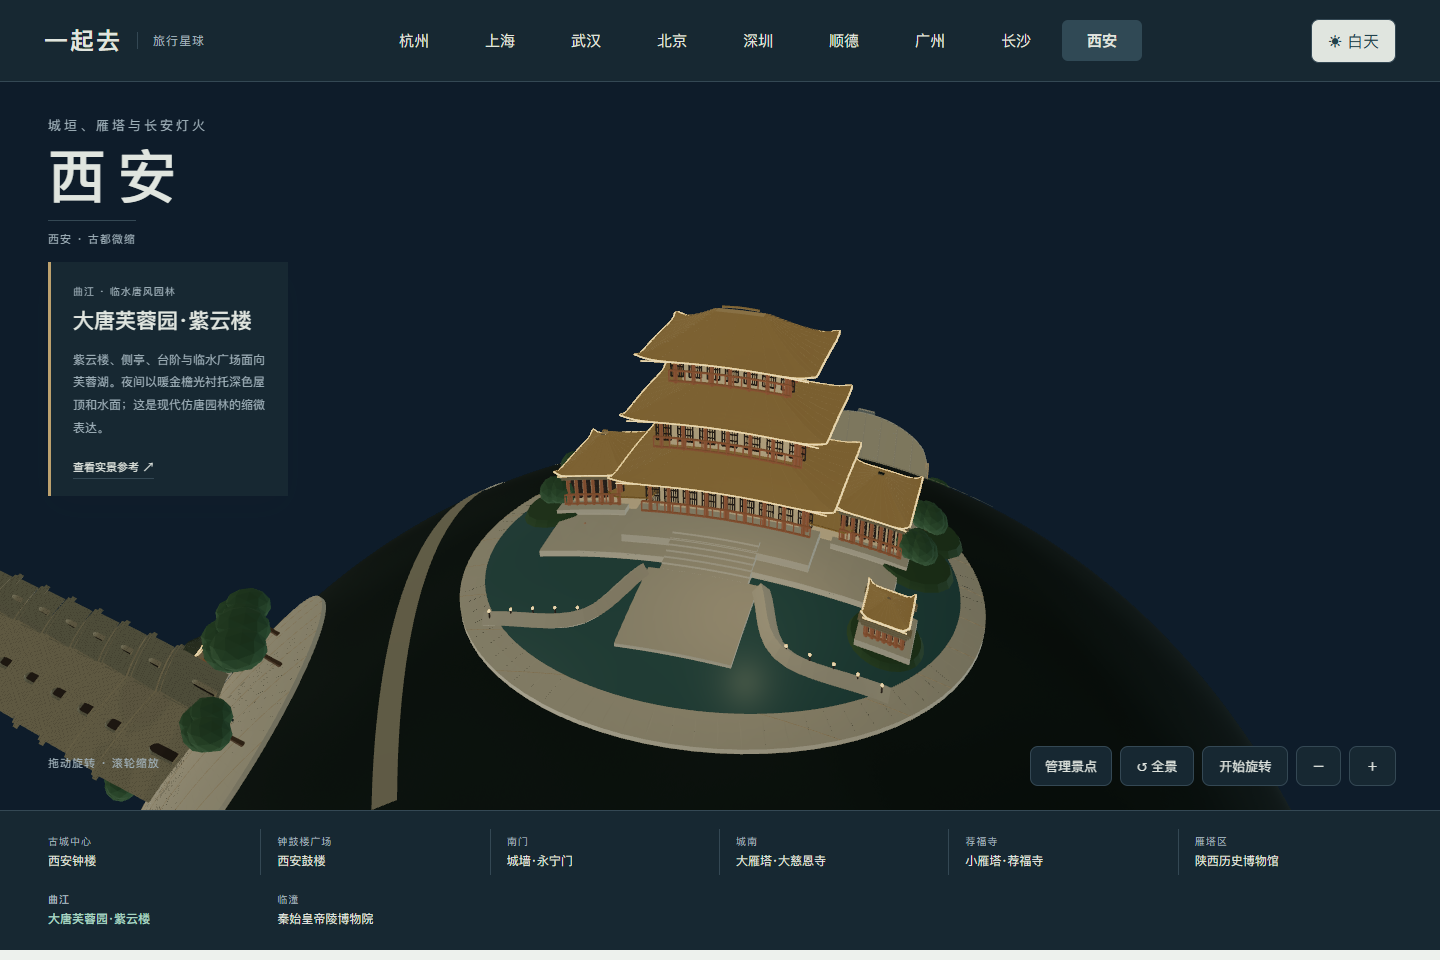
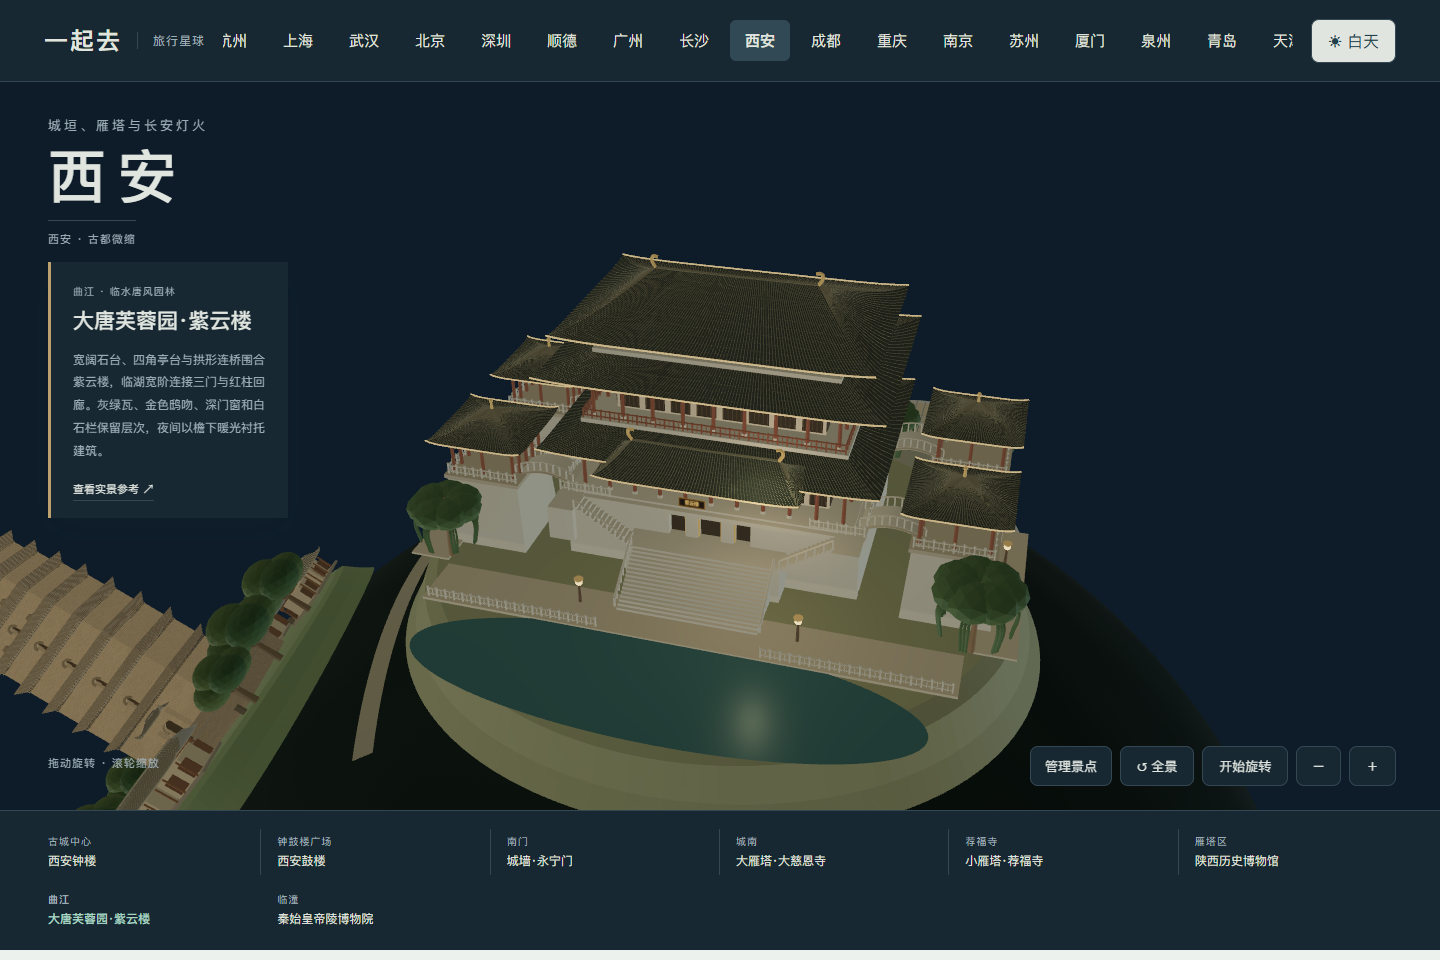
Rebuild Ziyun Pavilion terraces, corner pavilions and lakeside stairs

diff --git a/web/xian-furong.js b/web/xian-furong.js
@@ -1,0 +1,148 @@
+import * as THREE from 'three';
+import {ellipseSurface} from './xian-kit.js';
+import {plaque} from './wuhan-architecture.js';
+
+function patch(k,g,m,fn,nu=40,nv=16){
+ const p=[],ix=[];for(let j=0;j<=nv;j++)for(let i=0;i<=nu;i++)p.push(...fn(i/nu,j/nv));
+ for(let j=0;j<nv;j++)for(let i=0;i<nu;i++){const a=j*(nu+1)+i,b=a+nu+1;ix.push(a,a+1,b,a+1,b+1,b);}
+ const geo=new THREE.BufferGeometry();geo.setAttribute('position',new THREE.Float32BufferAttribute(p,3));geo.setIndex(ix);geo.computeVertexNormals();m.side=THREE.DoubleSide;k.mesh(g,geo,m);
+}
+function tangRoof(k,g,p,w,d,y,h,pyramidal=false){
+ const ridge=pyramidal?.001:Math.max(.01,w/2-d*.35),point=(sign,u,t,lift=0)=>{
+  const x=(u*2-1)*(ridge+(w/2-ridge)*t);return[x,y+h*(1-t)**1.45+.008*t**6*Math.abs(u*2-1)**7+lift,sign*d/2*t];
+ };
+ for(const sign of [-1,1]){
+  patch(k,g,p.tile,(u,t)=>point(sign,u,t));
+  const count=Math.max(28,Math.ceil(w/.009));for(let i=0;i<=count;i++)k.line(g,Array.from({length:10},(_,j)=>point(sign,i/count,j/9,.0008)),.0008,p.rib);
+  for(let j=1;j<10;j++)k.line(g,Array.from({length:21},(_,i)=>point(sign,i/20,j/10,.0003)),.00035,p.seam);
+  k.line(g,Array.from({length:41},(_,i)=>point(sign,i/40,1,.002)),.0025,p.edge);
+  patch(k,g,p.tile,(u,t)=>[sign*(ridge+(w/2-ridge)*t),y+h*(1-t)**1.45+.008*t**6*Math.abs(u*2-1)**7,(u*2-1)*d/2*t],24,16);
+  for(let i=0;i<=28;i++)k.line(g,Array.from({length:10},(_,j)=>{const t=j/9,u=i/28*2-1;return[sign*(ridge+(w/2-ridge)*t),y+h*(1-t)**1.45+.008*t**6*Math.abs(u)**7+.0008,u*d/2*t];}),.0008,p.rib);
+  if(!pyramidal)k.line(g,[[sign*ridge,y+h+.002,0],[sign*(ridge+.011),y+h+.022,0],[sign*(ridge+.007),y+h+.035,0],[sign*(ridge-.008),y+h+.034,0]],.005,p.gold);
+ }
+ k.line(g,[[-ridge,y+h+.003,0],[0,y+h+.001,0],[ridge,y+h+.003,0]],.004,p.rib);
+}
+
+function balustrade(k,g,p,a,b,y,stone=true){
+ const len=Math.hypot(b[0]-a[0],b[1]-a[1]),count=Math.max(2,Math.round(len/.026)),m=stone?p.stone:p.red;
+ for(let i=0;i<=count;i++){
+  const x=THREE.MathUtils.lerp(a[0],b[0],i/count),z=THREE.MathUtils.lerp(a[1],b[1],i/count);
+  k.box(g,.004,.030,.004,m,x,y+.015,z);if(stone)k.ball(g,.0034,m,x,y+.032,z);
+  if(i<count){const xx=THREE.MathUtils.lerp(a[0],b[0],(i+.5)/count),zz=THREE.MathUtils.lerp(a[1],b[1],(i+.5)/count);k.box(g,.002,.020,.002,m,xx,y+.013,zz);}
+ }
+ for(const h of [.009,.027])k.beam(g,[a[0],y+h,a[1]],[b[0],y+h,b[1]],.0022,m);
+}
+function gallery(k,g,p,{w,d,y,h,bays=8,open=false}){
+ const iw=w*.81,id=d*.67;
+ k.box(g,w+.015,.012,d+.015,p.stone,0,y-.006,0);
+ if(!open){
+  k.box(g,iw,h*.91,id,p.cream,0,y+h*.46,0);
+  for(const sign of [-1,1]){
+   for(let i=0;i<bays;i++){
+    const x=((i+.5)/bays-.5)*iw,ww=iw/bays*.76;
+    k.box(g,ww,h*.76,.003,p.door,x,y+h*.43,sign*(id/2+.001));
+    for(let j=0;j<5;j++)k.box(g,.0014,h*.68,.002,p.wood,x+(j/4-.5)*ww*.88,y+h*.43,sign*(id/2+.003));
+   }
+   for(let j=0;j<4;j++){const zz=(j/3-.5)*id*.84;k.box(g,.003,h*.73,id*.15,p.door,sign*(iw/2+.001),y+h*.44,zz);}
+  }
+ }
+ for(const sign of [-1,1]){
+  for(let i=0;i<=bays;i++){
+   const x=(i/bays-.5)*w*.94,z=sign*d*.46;
+   k.cyl(g,.0048,.0058,h,p.red,x,y+h/2,z,10);k.cyl(g,.007,.008,.009,p.stone,x,y+.004,z,10);
+   for(let j=0;j<3;j++){k.box(g,.014+j*.009,.004,.018+j*.006,p.wood,x,y+h-.012+j*.005,z);k.box(g,.005,.004,.023+j*.009,p.red,x,y+h-.009+j*.005,z);}
+  }
+  k.box(g,w,.010,.016,p.wood,0,y+h-.005,sign*d*.46);k.box(g,w*.96,.003,.002,p.gold,0,y+h-.007,sign*(d*.46+.009));
+  for(let i=1;i<4;i++)k.cyl(g,.0048,.0058,h,p.red,sign*w*.47,y+h/2,(i/4-.5)*d*.92,10);
+  k.box(g,.016,.010,d,p.wood,sign*w*.47,y+h-.005,0);
+  for(let i=0;i<bays;i++)k.box(g,w*.72/bays,.002,.006,p.light,((i+.5)/bays-.5)*w*.94,y+h-.017,sign*d*.40);
+ }
+}
+function podium(k,g,p,w,d,y,h,x=0,z=0){
+ const geo=new THREE.CylinderGeometry(1,1.13,h,4,1,false);geo.rotateY(Math.PI/4);geo.scale(w/Math.sqrt(2),1,d/Math.sqrt(2));k.mesh(g,geo,p.stone,x,y+h/2,z);
+ k.box(g,w+.014,.012,d+.014,p.cap,x,y+h+.003,z);
+}
+function bridge(k,g,p,side,z){
+ const a=.42,b=.60,w=.095,base=.238;
+ patch(k,g,p.stone,(u,v)=>[side*(a+(b-a)*u),base+.024*Math.sin(u*Math.PI),(v-.5)*w+z],28,6);
+ for(const sz of [-1,1]){
+  const pts=[];for(let i=0;i<=9;i++){const u=i/9,x=side*(a+(b-a)*u),y=base+.024*Math.sin(u*Math.PI);k.box(g,.004,.028,.004,p.stone,x,y+.014,z+sz*w/2);pts.push([x,y+.030,z+sz*w/2]);}
+  k.line(g,pts,.0025,p.stone);k.line(g,pts.map(([x,y,z])=>[x,y-.037,z]),.004,p.cap);
+  patch(k,g,p.cap,(u,v)=>[side*(a+(b-a)*u),base+.024*Math.sin(u*Math.PI)-v*.010,z+sz*w/2],28,1);
+ }
+}
+function willow(k,g,p,x,z,h){
+ k.cyl(g,.004,.010,h,p.trunk,x,.016+h/2,z,8);
+ for(let j=0;j<7;j++){
+  const a=j/7*Math.PI*2,xx=x+Math.cos(a)*h*.25,zz=z+Math.sin(a)*h*.25;
+  k.beam(g,[x,.016+h*.65,z],[xx,.016+h,zz],.003,p.trunk);
+  const b=k.mesh(g,new THREE.IcosahedronGeometry(h*.30,1),p.leaf,xx,h*.96,zz);b.scale.set(1,.70,1);
+  for(let i=-1;i<=1;i++)k.line(g,[[xx,h*.98,zz],[xx+Math.cos(a+i*.2)*h*.20,h*.77,zz+Math.sin(a+i*.2)*h*.2],[xx+Math.cos(a+i*.2)*h*.16,h*.38,zz+Math.sin(a+i*.2)*h*.16]],.004,p.leaf);
+ }
+}
+export function furong(k){
+ const first=k.materials.length,g=new THREE.Group(),p={stone:k.mat('#cbcbbc'),cap:k.mat('#aaa999'),cream:k.mat('#d6cdb6'),tile:k.mat('#415651'),rib:k.mat('#5c6c60'),seam:k.mat('#344642'),edge:k.mat('#c1ac74'),gold:k.mat('#b99a4b',.55,.3),red:k.mat('#824136'),wood:k.mat('#493a31'),door:k.mat('#282b29'),ground:k.mat('#a6ad8a'),paving:k.mat('#b8b7a5'),water:k.mat('#52817c',.34,.12),leaf:k.mat('#5d7650'),trunk:k.mat('#796650')};
+ for(const [name,m]of Object.entries(p))m.userData.night={color:new THREE.Color(name==='leaf'?'#6a8057':name==='water'?'#6b8584':'#f2cf99'),intensity:name==='tile'?.015:name==='door'?.035:name==='ground'?.018:name==='stone'?.035:.055};
+ p.edge.userData.night.intensity=.42;p.gold.userData.night.intensity=.16;
+ p.light=k.mat('#c9b48e',.8,0,'#ffd39b');p.light.userData.night.intensity=.68;
+ p.water.userData.furongLake=true;p.water.userData.preserveSmooth=true;
+ const positions=[],indices=[],N=128,R=24;
+ for(let j=0;j<=R;j++)for(let i=0;i<=N;i++){const rr=j/R,a=i/N*Math.PI*2,x=.96*rr*Math.cos(a),z=.88*rr*Math.sin(a),sag=2.15-Math.sqrt(2.15**2-x*x-z*z);positions.push(x,.012-sag*THREE.MathUtils.smoothstep(rr,.88,1),z);}
+ for(let j=0;j<R;j++)for(let i=0;i<N;i++){const a=j*(N+1)+i,b=a+N+1;if(j)indices.push(a,a+1,b);indices.push(a+1,b+1,b);}
+ const ground=new THREE.BufferGeometry();ground.setAttribute('position',new THREE.Float32BufferAttribute(positions,3));ground.setIndex(indices);ground.computeVertexNormals();k.mesh(g,ground,p.ground);
+ // The lake lies beyond the land-based podium and the continuous shore walk.
+ const lake=ellipseSurface(k,g,.69,.20,.017,p.water);lake.position.z=.60;
+ k.box(g,1.49,.008,.16,p.paving,0,.018,.36);
+ for(const s of [-1,1]){k.box(g,.12,.006,.59,p.paving,s*.82,.016,-.04);balustrade(k,g,p,[s*.23,.43],[s*.73,.43],.022);}
+ // Wide raised base: the three bottom doors are recessed below the main gallery.
+ k.box(g,.86,.210,.52,p.stone,0,.117,-.19);k.box(g,.89,.014,.60,p.stone,0,.229,-.16);
+ const faceZ=.100;
+ for(const [x,w]of [[-.275,.31],[.275,.31],[0,.046]]){if(x===0)continue;k.box(g,w,.21,.024,p.stone,x,.117,faceZ);}
+ for(const x of [-.105,0,.105]){
+  k.box(g,.063,.088,.003,p.door,x,.162,faceZ-.014);
+  for(const s of [-1,1])k.box(g,.006,.093,.007,p.gold,x+s*.034,.164,faceZ+.002);
+  k.box(g,.074,.007,.007,p.gold,x,.211,faceZ+.002);
+ }
+ for(const x of [-.0525,.0525])k.box(g,.035,.115,.024,p.stone,x,.174,faceZ);
+ k.box(g,.25,.015,.024,p.stone,0,.222,faceZ);k.box(g,.28,.112,.024,p.stone,0,.068,faceZ);
+ // Broad lower flight reaches the recessed door landing, with two upper side flights.
+ for(let i=0;i<16;i++)k.box(g,.40,.007*(i+1),.011,p.stone,0,.022+.0035*(i+1),.342-i*.010);
+ k.box(g,.45,.112,.110,p.stone,0,.078,.143);
+ for(const side of [-1,1]){
+  const stairRail=[];
+  for(let i=0;i<13;i++){
+   const x=side*(.225+i*.012),y=.134+.008*(i+1);k.box(g,.013,.008*(i+1),.060,p.stone,x,.134+.004*(i+1),.170);
+   if(i%2===0){k.box(g,.004,.028,.004,p.stone,x,y+.014,.205);stairRail.push([x,y+.030,.205]);}
+  }
+  k.box(g,.075,.104,.140,p.stone,side*.405,.186,.150);k.line(g,stairRail,.0025,p.stone);
+  const lower=[];for(let i=0;i<9;i++){const z=.342-i*.01875,y=.029+i*.013125;k.box(g,.005,.030,.005,p.stone,side*.207,y+.015,z);lower.push([side*.207,y+.031,z]);}k.line(g,lower,.003,p.stone);
+ }
+ // Three eave levels sit over two broad, recessed column galleries and a low attic.
+ const hall=new THREE.Group();hall.position.z=-.16;g.add(hall);
+ gallery(k,hall,p,{w:.80,d:.55,y:.242,h:.145,bays:10});tangRoof(k,hall,p,.96,.70,.394,.060);
+ gallery(k,hall,p,{w:.74,d:.49,y:.466,h:.135,bays:8});
+ for(const s of [-1,1]){balustrade(k,hall,p,[-.37,s*.25],[.37,s*.25],.468,false);balustrade(k,hall,p,[s*.37,-.25],[s*.37,.25],.468,false);}
+ tangRoof(k,hall,p,.96,.68,.611,.055);
+ gallery(k,hall,p,{w:.67,d:.43,y:.673,h:.039,bays:8});tangRoof(k,hall,p,.88,.60,.722,.106);
+ const porch=new THREE.Group();porch.position.z=.155;g.add(porch);tangRoof(k,porch,p,.57,.23,.391,.065);
+ plaque(k,g,'紫云楼',.073,.028,0,.364,.274);
+ for(const s of [-1,1]){
+  balustrade(k,g,p,[s*.29,.127],[s*.44,.127],.240);
+  balustrade(k,g,p,[s*.44,-.45],[s*.44,.055],.240);
+  for(const z of [-.39,.035]){
+   const x=s*.68;podium(k,g,p,.22,.22,.012,.222,x,z);
+   const pavilion=new THREE.Group();pavilion.position.set(x,0,z);g.add(pavilion);
+   gallery(k,pavilion,p,{w:.20,d:.20,y:.242,h:.110,bays:2,open:true});
+   tangRoof(k,pavilion,p,.29,.29,.360,.060,true);k.cyl(pavilion,.003,.005,.022,p.gold,0,.430,0,8);k.ball(pavilion,.006,p.gold,0,.444,0);
+   for(const d of [-1,1]){balustrade(k,pavilion,p,[-.106,d*.106],[.106,d*.106],.243);if(d===s)balustrade(k,pavilion,p,[d*.106,-.106],[d*.106,.106],.243);}
+   bridge(k,g,p,s,z);
+  }
+ }
+ balustrade(k,g,p,[-.43,-.46],[.43,-.46],.240);
+ for(const [x,z,h]of [[-.76,.23,.20],[.76,.25,.23],[-.70,-.56,.22],[.70,-.56,.20],[-.39,-.64,.18],[.39,-.64,.20]])willow(k,g,p,x,z,h);
+ for(const [i,[x,z]]of [[-.31,.34],[.31,.34],[-.82,-.15],[.82,-.15]].entries()){
+  const m=k.mat('#c2a56d',.8,0,'#ffd59b');m.userData.night.intensity=.95;m.userData.pulse={speed:.65,phase:i*1.7};k.cyl(g,.003,.005,.065,p.wood,x,.054,z,8);k.ball(g,.010,m,x,.089,z);k.cyl(g,.014,.012,.005,p.gold,x,.099,z,8);
+ }
+ for(const m of k.materials.slice(first))m.userData.furongRigid=true;
+ g.userData={modernTangGarden:true,cornerPavilions:4,landBasedPodium:true};return k.merge(g);
+}

diff --git a/web/xian-landmarks.js b/web/xian-landmarks.js
@@ -7,7 +7,7 @@ export const LANDMARKS=[
   {id:'pagoda',name:'大雁塔·大慈恩寺',area:'城南 · 七层方塔',x:1.11,z:-1.00,height:1.27,distance:3.2,view:[.30,.70,1.75],description:'七层灰褐砖塔逐层收分，券窗、砖仿木柱和叠涩出檐形成细节。底层入口与两侧碑龛分开，葫芦塔刹、灰瓦寺院与石阶共同组成完整场地。',source:'https://www.hkcd.com/content_p/2013-12/09/content_1991.html'},
   {id:'smallPagoda',name:'小雁塔·荐福寺',area:'荐福寺 · 密檐古塔',x:-1.02,z:.85,hemisphere:-1,height:1.27,distance:2.9,view:[.33,.73,1.7],description:'十三层砖塔向上渐密收分，南北券窗与叠涩砖檐保留细节，四角残墙围合塔顶。石门、台阶、灰瓦殿堂和古树组成荐福寺院落，夜间以低亮暖光呈现砖色。',source:'https://m.thepaper.cn/newsDetail_forward_28705852'},
   {id:'museum',name:'陕西历史博物馆',area:'雁塔区 · 唐风殿堂',x:1.07,z:.95,hemisphere:-1,height:.53,distance:3.0,view:[.35,.73,1.7],description:'独立前门、重檐主殿、四角楼与连续柱廊围合庭院，灰瓦、浅石柱和宽阶保留唐风馆舍层次。入口水池与灰底金字石牌面向广场，夜间以廊下暖光和低矮庭灯分层。',source:'https://www.cscec.com/ztzl_new/mhsjd81_new/bq/201812/2899627.html'},
-  {id:'furong',name:'大唐芙蓉园·紫云楼',area:'曲江 · 临水唐风园林',x:-1.10,z:-.88,hemisphere:-1,height:.72,distance:3.0,view:[.45,1.0,1.6],description:'紫云楼、侧亭、台阶与临水广场面向芙蓉湖。夜间以暖金檐光衬托深色屋顶和水面；这是现代仿唐园林的缩微表达。',source:'https://dp.pconline.com.cn/photo/list_4848079.html'},
+  {id:'furong',name:'大唐芙蓉园·紫云楼',area:'曲江 · 临水唐风园林',x:-1.13,z:-1.01,hemisphere:-1,height:.83,distance:3.25,view:[.45,1.0,1.6],description:'宽阔石台、四角亭台与拱形连桥围合紫云楼，临湖宽阶连接三门与红柱回廊。灰绿瓦、金色鸱吻、深门窗和白石栏保留层次，夜间以檐下暖光衬托建筑。',source:'https://www.tangparadise.cn/its.html?id=753'},
   {id:'warriors',name:'秦始皇帝陵博物院',area:'临潼 · 兵马俑展馆',x:1.10,z:-1.08,hemisphere:-1,height:.30,distance:3.1,view:[.35,.80,1.7],description:'一号坑长拱顶、连续脊部天窗和浅拱玻璃端墙，搭配米灰石柱入口、灰瓦小檐与相邻保护展厅。宽阶、草坪和低矮庭灯连接前院，展示现有馆舍外观。',source:'https://www.bmy.com.cn/pitone.html'},
 ].map(item=>({...item,grounded:true}));
 const builders={bell,drum,wall,pagoda,smallPagoda,museum:historyMuseum,furong,warriors};

diff --git a/web/xian-places.js b/web/xian-places.js
@@ -4,19 +4,5 @@ import {plaque,rail} from './wuhan-architecture.js';
 
 export {wall} from "./xian-wall.js";
 export {historyMuseum} from "./xian-museum.js";
-export function furong(k){
-  const g=new THREE.Group(),p=colors(k);p.tile=k.mat('#575746',.75);p.tile.userData.night={color:new THREE.Color('#e8b969'),intensity:.17};terrace(k,g,p,.73,.65);
-  const water=k.mat('#527d79',.40,.1);water.userData.furongLake=true;water.userData.preserveSmooth=true;ellipseSurface(k,g,.66,.66*.86,.023,water);
-  k.box(g,.97,.021,.54,p.light,0,.032,-.15);k.box(g,.52,.035,.42,p.light,0,.048,-.14);
-  const palace=new THREE.Group();palace.position.set(0,.061,-.20);
-  timberFloor(k,palace,p,{w:.48,d:.31,y:0,h:.13,bays:9});eave(k,palace,p,.62,.44,.135,.070);
-  timberFloor(k,palace,p,{w:.41,d:.27,y:.20,h:.115,bays:7});eave(k,palace,p,.55,.40,.32,.075);
-  timberFloor(k,palace,p,{w:.33,d:.22,y:.392,h:.09,bays:7});eave(k,palace,p,.47,.35,.487,.095);g.add(palace);
-  for(const s of [-1,1]){hall(k,g,p,{x:s*.40,z:-.20,y:.043,w:.17,d:.25,h:.11,roofHeight:.07});k.box(g,.12,.045,.28,p.wall,s*.28,.067,-.23);roof(k,g,.14,.31,.04,.092,p.tile,p.gold,s*.28,-.23);}
-  steps(k,g,p,.24,.19,.06,0,.21,10);k.box(g,.30,.010,.27,p.light,0,.035,.30);
-  for(const s of [-1,1]){k.line(g,[[s*.16,.040,.18],[s*.26,.046,.37],[s*.53,.040,.38]],.024,p.light);for(let i=0;i<5;i++){const x=s*(.27+i*.06),z=.37+i*.005;k.ball(g,.004,p.warm,x,.075,z);k.cyl(g,.002,.003,.035,p.wood,x,.058,z,6);}}
-  for(const [x,z]of [[-.53,-.30],[.53,-.30],[-.52,-.12],[.52,-.12]]){k.cyl(g,.10,.11,.02,p.green,x,.04,z,16);groves(k,g,[[x,z,.095]]);}
-  const island=k.cyl(g,.09,.10,.018,p.green,.49,.03,.20,24);hall(k,g,p,{x:.49,z:.20,w:.10,d:.10,y:.04,h:.06,roofHeight:.035});
-  g.userData={modernTangGarden:true};return finish(k,g,p,{visitors:[[-.12,.07],[.12,.06],[-.40,-.01],[.20,-.03]]});
-}
+export {furong} from "./xian-furong.js";
 export {warriors} from "./xian-warriors.js";

diff --git a/web/xian-scene.js b/web/xian-scene.js
@@ -14,7 +14,7 @@ export function createXianScene(){
     model.traverse(o=>{
       if(!o.isMesh)return;o.userData.landmark=item.id;o.castShadow=true;o.receiveShadow=true;o.material.envMapIntensity=.30;
       const old=o.geometry;o.geometry=new TessellateModifier(.055,7).modify(old);old.dispose();const a=o.geometry.attributes.position,n=o.geometry.attributes.normal;
-      if(!o.material.userData.pagodaRigid&&!o.material.userData.drumRigid&&!o.material.userData.smallPagodaRigid&&!o.material.userData.museumRigid&&!o.material.userData.warriorsRigid&&!o.material.userData.wallRigid)for(let i=0;i<a.count;i++){const x=a.getX(i),z=a.getZ(i);a.setY(i,a.getY(i)-sag(x,z));if(o.material.userData.preserveSmooth){const ny=n.getY(i),r=Math.sqrt(Math.max(.001,RADIUS*RADIUS-x*x-z*z)),nx=n.getX(i)+x/r*ny,nz=n.getZ(i)+z/r*ny,len=Math.hypot(nx,ny,nz);n.setXYZ(i,nx/len,ny/len,nz/len);}}
+      if(!o.material.userData.pagodaRigid&&!o.material.userData.drumRigid&&!o.material.userData.smallPagodaRigid&&!o.material.userData.museumRigid&&!o.material.userData.warriorsRigid&&!o.material.userData.wallRigid&&!o.material.userData.furongRigid)for(let i=0;i<a.count;i++){const x=a.getX(i),z=a.getZ(i);a.setY(i,a.getY(i)-sag(x,z));if(o.material.userData.preserveSmooth){const ny=n.getY(i),r=Math.sqrt(Math.max(.001,RADIUS*RADIUS-x*x-z*z)),nx=n.getX(i)+x/r*ny,nz=n.getZ(i)+z/r*ny,len=Math.hypot(nx,ny,nz);n.setXYZ(i,nx/len,ny/len,nz/len);}}
       a.needsUpdate=true;if(o.material.userData.preserveSmooth)n.needsUpdate=true;else o.geometry.computeVertexNormals();
       if(!o.material.userData.night)o.material.userData.night={color:o.material.color.clone(),intensity:.045};
     });

diff --git a/README.md b/README.md
@@ -1,6 +1,6 @@
 # 一起去 · Travel Planet
 
-用可旋转的 3D 城市星球发现景点，再和朋友一起决定怎么旅行。当前版本 **0.55.27**，支持桌面和手机网页。
+用可旋转的 3D 城市星球发现景点，再和朋友一起决定怎么旅行。当前版本 **0.55.28**，支持桌面和手机网页。
 
 **[上海旅行 · 在线体验](https://43.139.249.151/travel/shanghai-trip.html)** · **[杭州旅行](https://43.139.249.151/travel/)** · **[武汉旅行](https://43.139.249.151/travel/wuhan-trip.html)** · **[武汉纯地图](https://43.139.249.151/travel/wuhan.html)** · **[上海纯地图](https://43.139.249.151/travel/shanghai.html)** · **[北京地图](https://43.139.249.151/travel/beijing.html)** · **[深圳地图](https://43.139.249.151/travel/shenzhen.html)** · **[顺德地图](https://43.139.249.151/travel/shunde.html)** · **[广州地图](https://43.139.249.151/travel/guangzhou.html)** · **[长沙地图](https://43.139.249.151/travel/changsha.html)** · **[西安地图](https://43.139.249.151/travel/xian.html)** · **[成都地图](https://43.139.249.151/travel/chengdu.html)** · **[重庆地图](https://43.139.249.151/travel/chongqing.html)** · **[南京地图](https://43.139.249.151/travel/nanjing.html)** · **[苏州地图](https://43.139.249.151/travel/suzhou.html)** · **[厦门地图](https://43.139.249.151/travel/xiamen.html)** · **[泉州地图](https://43.139.249.151/travel/quanzhou.html)** · **[青岛地图](https://43.139.249.151/travel/qingdao.html)** · **[天津地图](https://43.139.249.151/travel/tianjin.html)** · **[大理地图](https://43.139.249.151/travel/dali.html)** · **[桂林地图](https://43.139.249.151/travel/guilin.html)** · **[三亚地图](https://43.139.249.151/travel/sanya.html)** · **[香港地图](https://43.139.249.151/travel/hongkong.html)** · **[澳门地图](https://43.139.249.151/travel/macau.html)**
 
@@ -120,3 +120,6 @@ npm run check
 
 和美术馆现以馆方实拍为依据，呈现错位圆层、密竖格、通透天窗、双螺旋梯与夹岸水院。夜景使用温和室内光。
 永宁门已按实拍精修三重檐城楼、四排箭窗、瓮城与弧形月城，补齐贯通券洞和墙顶石阶；[参考与日夜画面](docs/XIAN_REFERENCES.md)。
+
+
+紫云楼已按景区实拍重做宽石台、四角亭、拱形连桥、红柱回廊与临湖宽阶；夜景保留建筑原色，详见[西安参考与画面](docs/XIAN_REFERENCES.md)。

diff --git a/docs/TESTING.md b/docs/TESTING.md
@@ -369,3 +369,10 @@ python tools/travel-flow-check.py
 347 项完整测试、352 项 JavaScript 语法检查通过，含 11 项西安专项。新增射线检查覆盖主城门、瓮城侧门、月城外门贯通，四排箭窗开孔与砖间柱，21 级石阶与墙顶连续连接，以及弧形月墙。八组地标的落地、间距、夜间原色与资源释放检查继续通过。
 
 2026-11-04 15:12—15:13 正式日夜、斜向、背面及 320 宽度画面直接核看；15:13—15:15 完整浏览器验收通过，覆盖八组地标、整组增删与刷新恢复、夜景动态及减少动态效果、双指缩放、拖动、键盘、320/390/768/844/1000 宽度和 WebGL 丢失后恢复。390 管理面板与窄屏夜景已直接核看。页面异常与业务写入均为 0，手机为浏览器模拟。
+
+
+## 0.55.28 大唐芙蓉园·紫云楼
+
+348 项完整测试、353 项 JavaScript 语法检查通过，含 12 项西安专项。新增检查覆盖四角亭内部通透、主楼回廊净空、16 级临湖台阶、13 级侧阶、平台连接、四座拱形连桥和三个凹入门洞；湖面边界拓扑、八组地标间距、落地、日夜原色与资源释放检查继续通过。
+
+草稿检查发现侧阶被台基边缘遮挡，已移至外侧并重新连接。2026-11-04 15:31—15:32 正式日夜、斜向、背面和 320 宽度画面直接核看；15:31—15:34 完整浏览器验收通过，涵盖八组地标取景、紫云楼夜间动态与减少动态效果、整组增删及刷新恢复、双指缩放与拖动、键盘、多宽度布局和 WebGL 恢复。390 管理面板与窄屏夜景已核看。页面异常及业务写入均为 0；手机为浏览器模拟。

diff --git a/docs/XIAN_REFERENCES.md b/docs/XIAN_REFERENCES.md
@@ -119,3 +119,18 @@
 ![箭楼、月城与侧门](images/xian-wall-oblique.png)
 
 ![永宁门夜景](images/xian-wall-night.png)
+
+
+## 0.55.28 大唐芙蓉园·紫云楼
+
+直接核看[景区的紫云楼正面照片](https://www.tangparadise.cn/its.html?id=753)，并对照[中建西北院的设计资料和园区实拍](https://nwin.cscec.com/xwzx/qydt/202305/3671538.html)。设计文章中另有园内方亭、廊桥和新增厅堂照片，未误当作紫云楼主体。
+
+取消旧模型层层缩窄的小亭轮廓，改为宽阔的白石台基、两层主要红柱回廊和低阁层，上覆舒展的灰绿色瓦檐。四角独立亭台用单尖攒顶，拱形连桥连接主台；中央宽阶到达三门前平台，两侧继续上升到回廊。门窗退入柱列后，补金色鸱吻、瓦垄、细栏与紫云楼匾额。临湖步道、柳树和灯柱表达湖岸关系，建筑落在陆地平台上。
+
+夜间用低亮檐灯、廊下暖光和缓慢明暗变化的庭灯分层，保留灰绿瓦、红柱与白石底色。模型是现代仿唐建筑与湖岸的缩微表达，湖面和园林范围经过压缩，未声称完整测绘或现实夜游安排；照片仅用于内部研究。
+
+![紫云楼临湖日景](images/xian-furong.png)
+
+![四角亭与拱形连桥](images/xian-furong-oblique.png)
+
+![紫云楼夜景](images/xian-furong-night.png)
